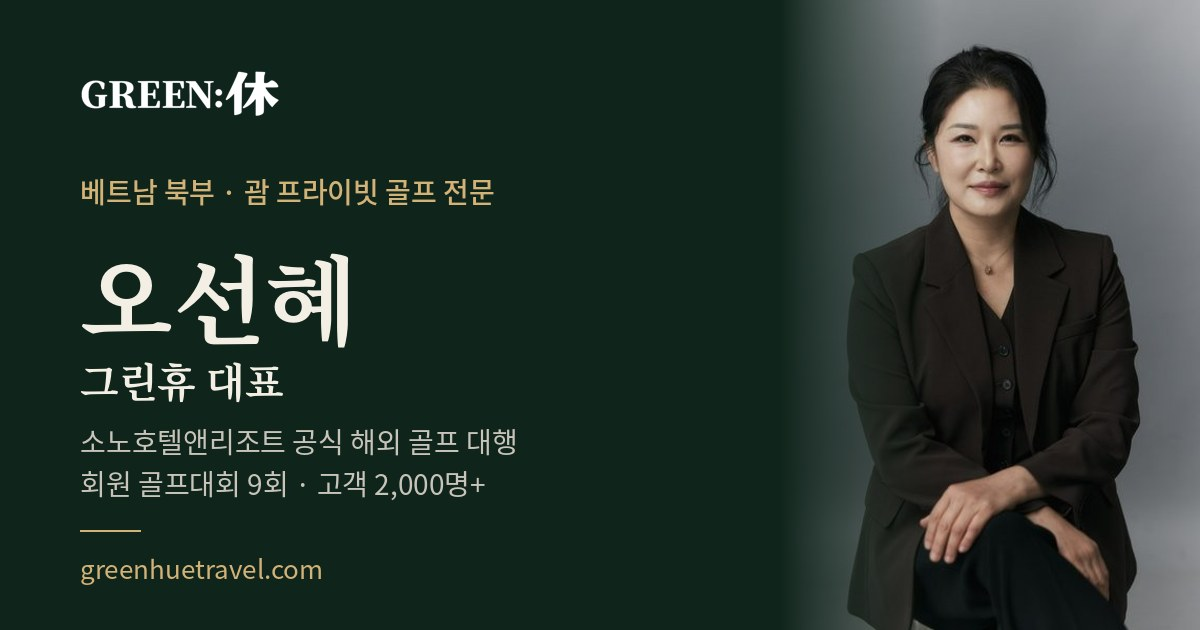
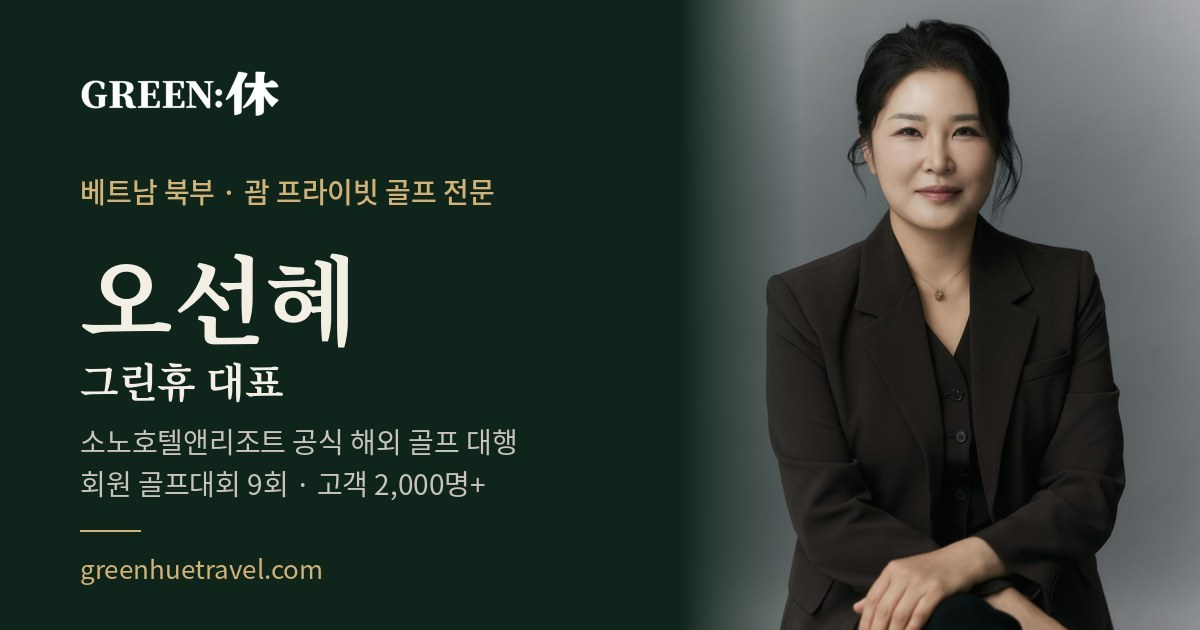
대표 소개·명함·공유카드: 보정된 정장 프로필로 교체
Claude-Session: https://claude.ai/code/session_01NZVA23db3YUTFRLkquJDWt

Changed region(s): [[0.555, 0.0, 1.0, 1.0]]

diff --git a/card.html b/card.html
@@ -25,7 +25,7 @@ if(ev)gtag('event',ev,{page:pg,link_text:t,transport_type:'beacon'});},true);})(
 <meta property="og:site_name" content="GREEN:休 그린휴 골프여행">
 <meta property="og:title" content="오선혜 · 그린휴 대표">
 <meta property="og:description" content="베트남 북부 · 괌 프라이빗 골프 · 소노호텔앤리조트 공식 해외 골프 대행">
-<meta property="og:image" content="https://greenhuetravel.com/assets/og-card-seonhye.jpg">
+<meta property="og:image" content="https://greenhuetravel.com/assets/og-card-seonhye.jpg?v=20261112">
 <meta property="og:image:width" content="1200">
 <meta property="og:image:height" content="630">
 <meta property="og:url" content="https://greenhuetravel.com/card">
@@ -70,7 +70,7 @@ h1{font-family:var(--fs);font-weight:600;font-size:30px;letter-spacing:.06em;mar
 <body>
 <div class="page">
  <div class="band"><div class="mark">GREEN:<b>休</b></div></div>
- <img class="photo" src="assets/ceo.jpg" width="156" height="208" alt="그린휴 대표 오선혜">
+ <img class="photo" src="assets/ceo.jpg?v=20261112" width="156" height="208" alt="그린휴 대표 오선혜">
 
  <div class="id">
   <h1>오선혜</h1>

diff --git a/index.html b/index.html
@@ -466,7 +466,7 @@ section,.strip{scroll-margin-top:64px}
 <section class="founder" id="founder" aria-labelledby="f-h"><div class="wrap fgrid">
  <div>
   <p class="eb">대표 소개</p><h2 class="t" id="f-h">한 번 맡으면<br>끝까지 챙깁니다</h2>
-  <div class="fh"><img src="assets/ceo.jpg" alt="그린휴 대표 오선혜" loading="lazy"><div><q>티타임 하나, 객실 하나까지 제가 먼저 확인합니다.</q><div class="sg"><b>오선혜</b>GREEN:休 대표</div></div></div>
+  <div class="fh"><img src="assets/ceo.jpg?v=20261112" alt="그린휴 대표 오선혜" loading="lazy"><div><q>티타임 하나, 객실 하나까지 제가 먼저 확인합니다.</q><div class="sg"><b>오선혜</b>GREEN:休 대표</div></div></div>
   <ul class="pf3">
    <li><b>19년</b><span>삶을 지키는 보험, 여행의 안전까지</span></li>
    <li><b>현지팀</b><span>하이퐁 상주 현지팀이 함께</span></li>
